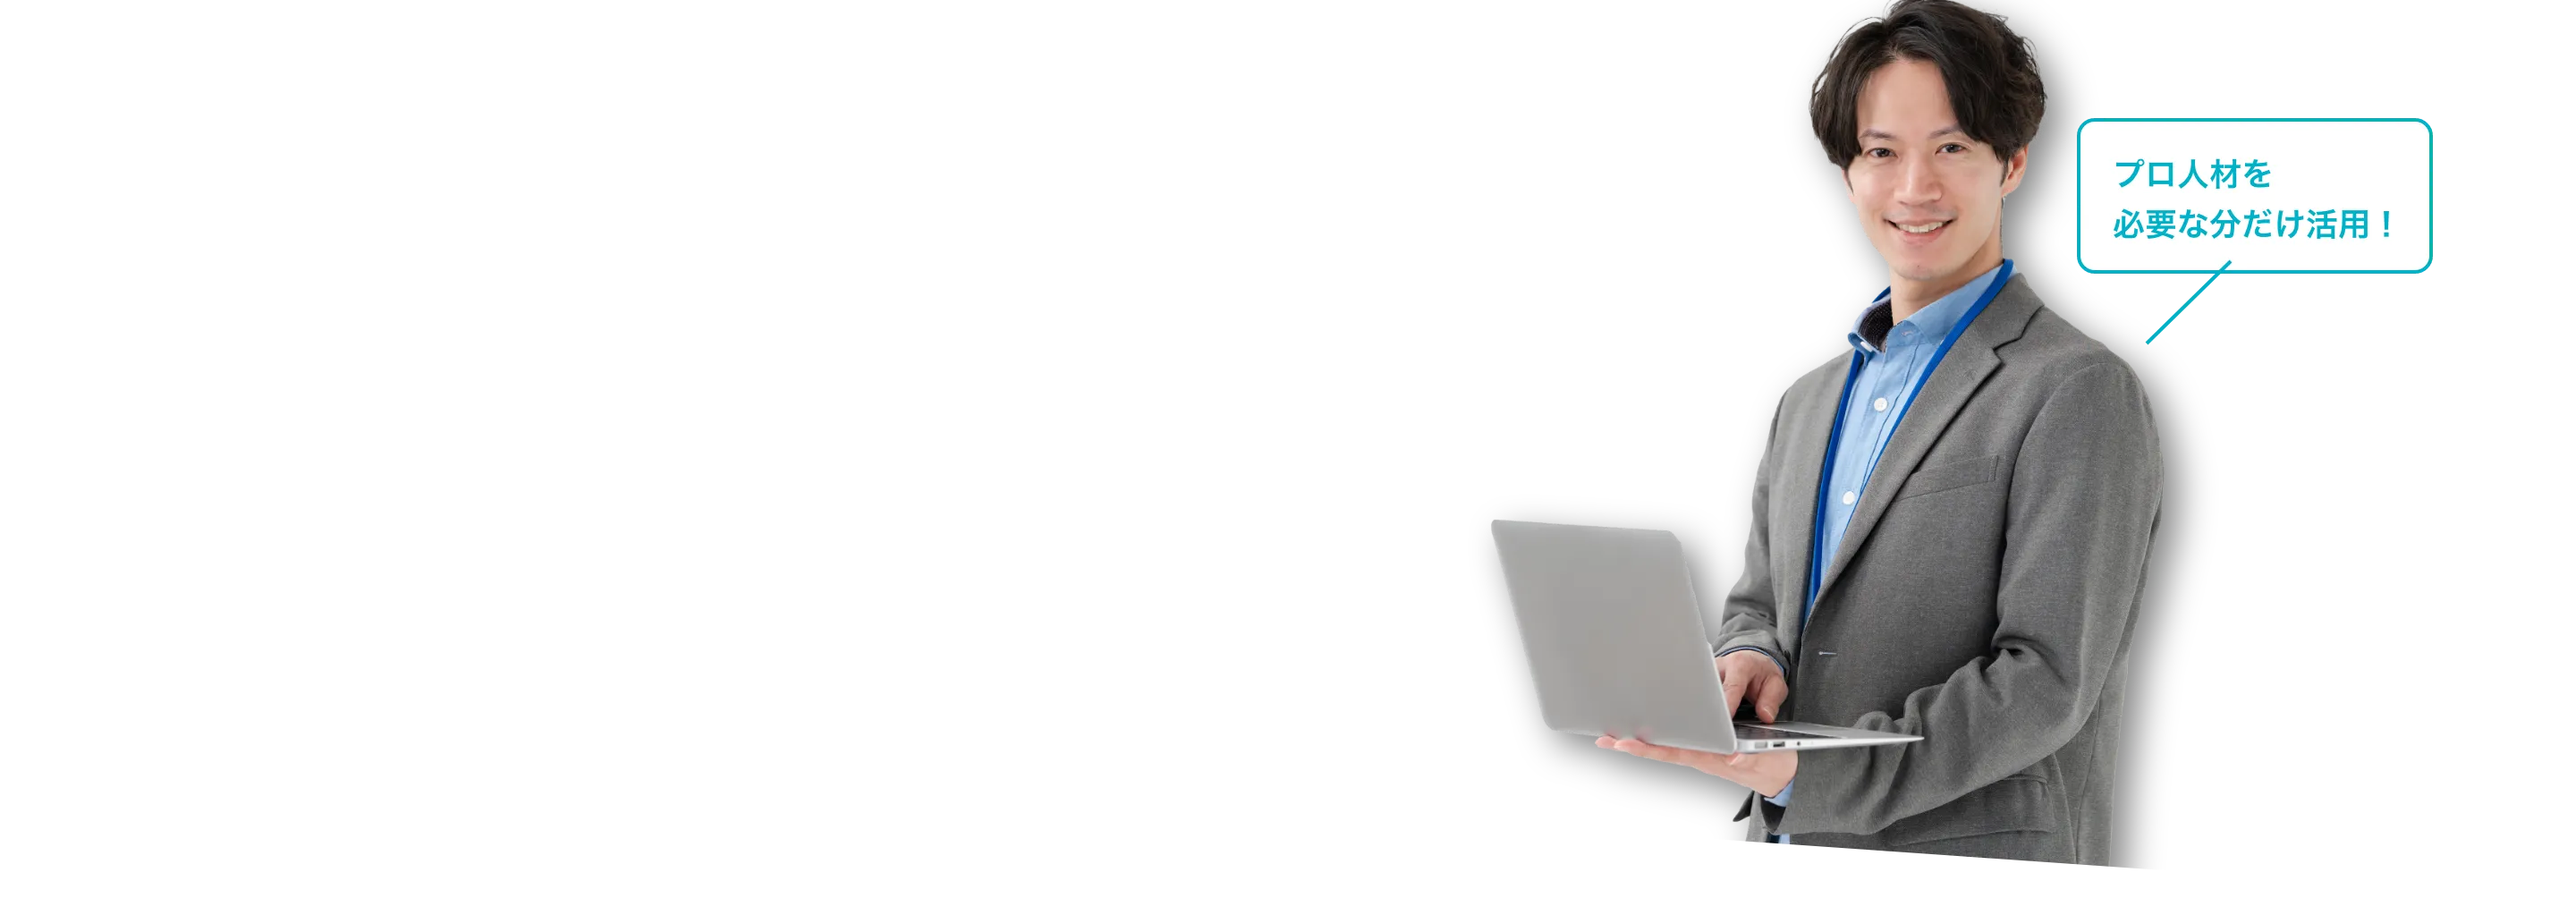
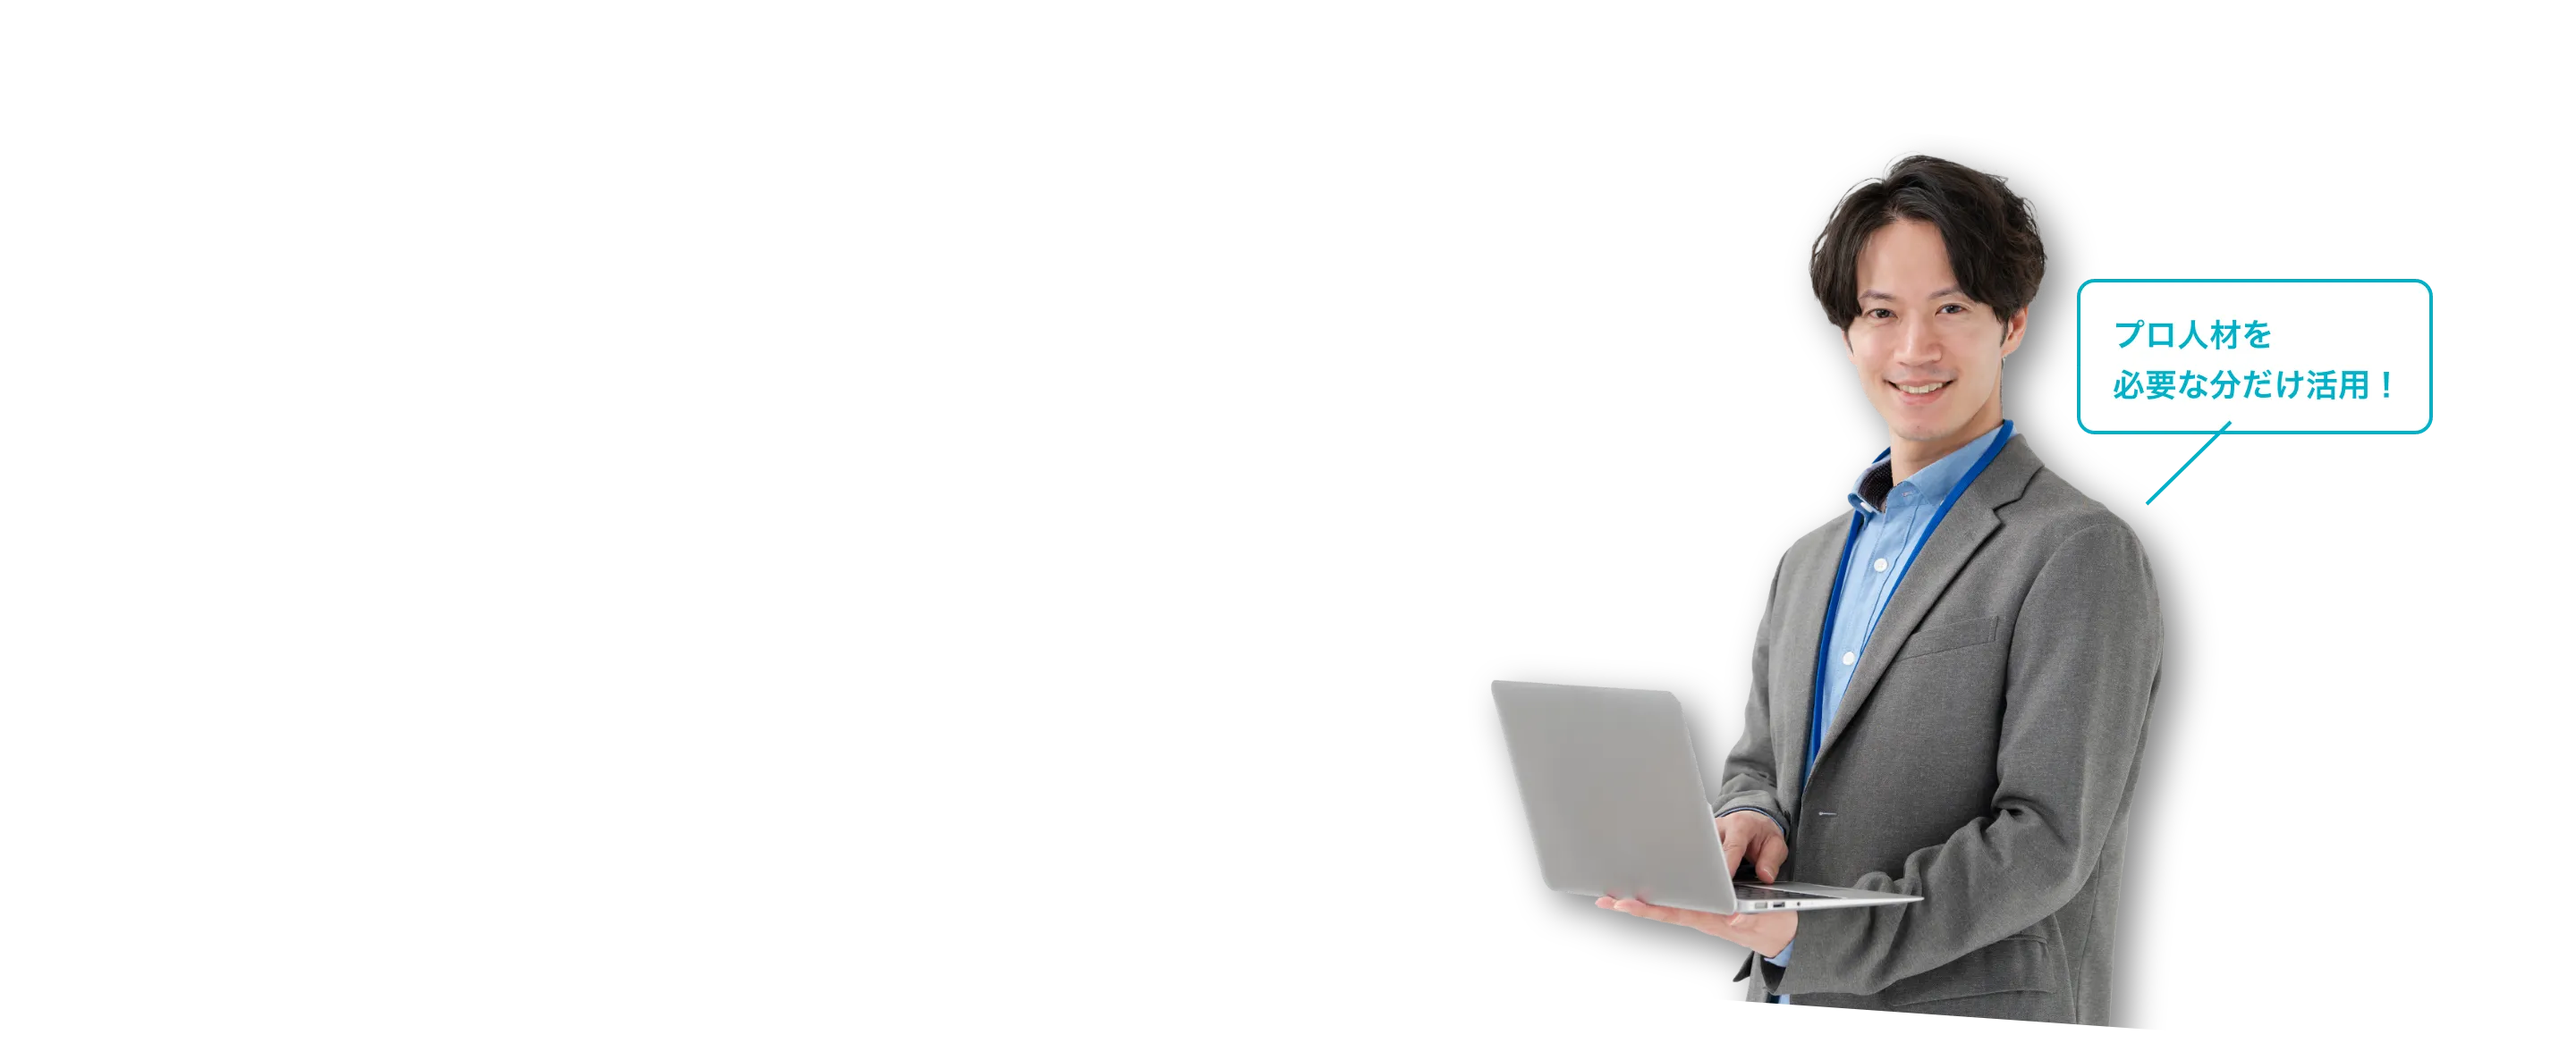
スプシ、no7, no8, no10対応

Changed region(s): [[0.5625, 0.0, 0.9375, 0.9572], [0.7812, 0.9572, 0.8125, 0.988]]

diff --git a/assets/scss/page/_reason.scss b/assets/scss/page/_reason.scss
@@ -61,6 +61,7 @@
 
             .reason__item-img {
                 width: rem(1440);
+                top: rem(-90);
                 right: 0;
             }
         }
@@ -153,6 +154,15 @@
         }
     }
 
+    @include mq(smpc) {
+        .reason__item {
+            &.reason__item--1 {
+                .reason__item-img {
+                    top: rem(-93);
+                }
+            }
+        }
+    }
     @include mq(SP) {
         overflow: hidden;
         
@@ -205,6 +215,7 @@
                 .reason__item-img {
                     width: 100%;
                     right: 0;
+                    top: 0;
                 }
 
                 .reason__item-num {

diff --git a/assets/js/script.js b/assets/js/script.js
@@ -127,6 +127,10 @@ const swiper = new Swiper('.swiper', {
     nextEl: ".swiper-button-next",
     prevEl: ".swiper-button-prev",
   },
+  autoplay: {
+    delay: 3000,
+    disableOnInteraction: false,
+  },
   // 1024px以上で1.371428571429
   breakpoints: {
     769: {

diff --git a/assets/scss/page/_structure.scss b/assets/scss/page/_structure.scss
@@ -674,7 +674,7 @@
           .structure__hour-item-text {
             width: rem(58);
             height: rem(22);
-            font-size: 10px;
+            font-size: max(rem(10), 10px);
           }
 
           .structure__hour-item-price {

diff --git a/template-parts/solution.php b/template-parts/solution.php
@@ -85,7 +85,7 @@ Template Name: 提供サービス一覧
                     </li>
                 </ul>
                 <p class="solution__content-note">
-                    この他にも対応可能な作業も多数ございます<br class="sp-only">のでお気軽にご相談ください！
+                    この他にも対応可能な作業も多数ございます<br class="sp-only">ので、お気軽にご相談ください！
                 </p><!-- /solution__content-note -->
                 <div class="solution__content-link-wrapper">
                     <a href="<?php echo get_template_directory_uri(); ?>/assets/pdf/graf.pdf" class="solution__content-link" target="_blank">
